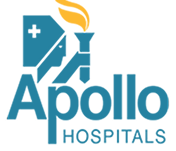
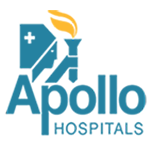
hii

diff --git a/index.html b/index.html
@@ -25,7 +25,7 @@
     <div class="b-text">
       <img src="assets/img/franchise.png" alt="" class="img-fluid">
       <div class="bb-text">
-        <img src="assets/img/logo.png" alt="" width="200px" height="100px">
+        <img src="assets/img/logo.png" alt="" width="200px">
         <h3 id="star">Start your new </h3>
         <h1 id="bus">business</h1>
         <div class="mt-4">
@@ -39,7 +39,7 @@
    <div class="b-div">
    <img src="assets/img/franchise.jpg" alt="" class="img-fluid">
    <div class="bb-text">
-    <img src="assets/img/logo.png" alt="" width="200px" height="100px">
+    <img src="assets/img/logo.png" alt="" width="200px" >
     <h3 id="star">Start your new </h3>
     <h1 id="bus">business</h1>
     <div class="mt-4">

diff --git a/assets/css/style.css b/assets/css/style.css
@@ -43,6 +43,9 @@ h3{
   border-bottom: 1px solid #fff;
   color: #fff ;
 }
+.modal-body select option{
+  color: #000;
+}
 .modal-body input::placeholder {
   color: #fff;
 }
@@ -57,7 +60,8 @@ h3{
 }
 .btn-close {
  width: 30px;
-  height: 30px;
+ height: 30px;
+ border-radius: 50px;
 }
 .modal-content{
   background-color: #262261c7;
